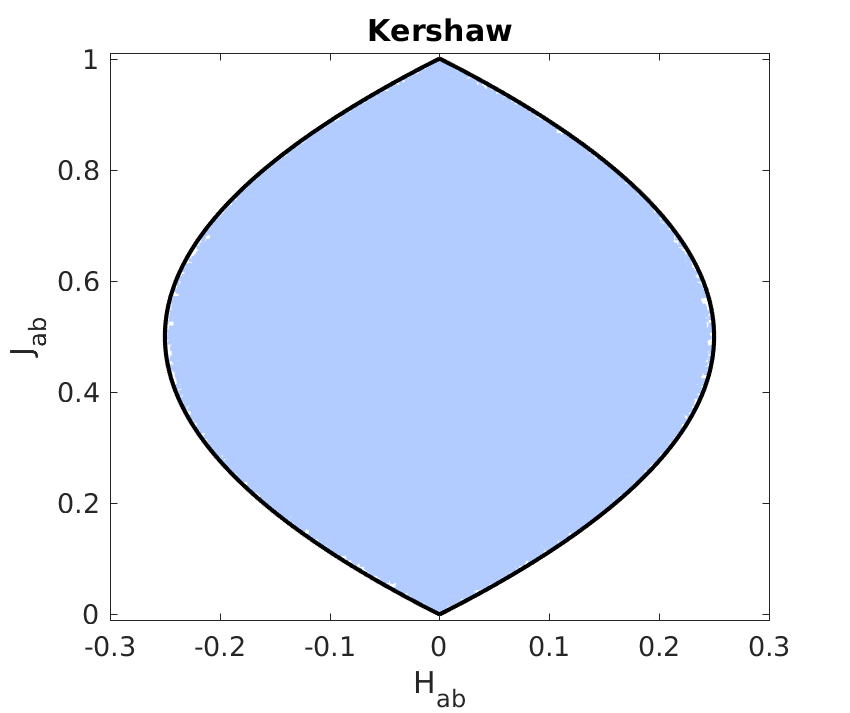
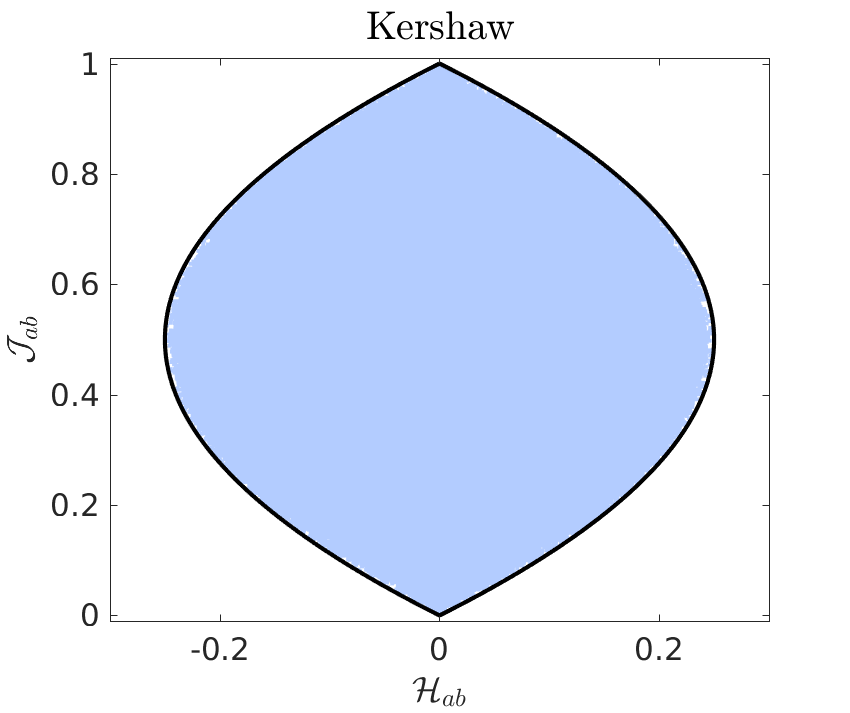
Changed font size and format.

diff --git a/Documents/M1/realizableFermionicM1/figures/MabWithDiffClosure.m b/Documents/M1/realizableFermionicM1/figures/MabWithDiffClosure.m
@@ -1,43 +1,43 @@
-close all
-clear all
+% close all
+% clear all
+% 
+% PolynomialCB = @(x) x^2 * ( 3.0 - abs(x) + 3.0 * x^2 ) / 5.0;
+% EddingtonFCB = @(e,f) (2.0/3.0)*(1.0-e)*(1.0-2.0*e)*PolynomialCB(f/(1.0-e))+1.0/3.0;
+% PolynomialBL = @(x) ( 9.0 * x^2 - 5.0 + sqrt( 33.0 * x^4 - 42.0 * x^2 + 25.0 ) ) /8.0;
+% EddingtonFBL = @(e,f) (2.0/3.0)*(1.0-e)*(1.0-2.0*e)*PolynomialBL(f/(1.0-e))+1.0/3.0;
+% PolynomialKS = @(x) x^2;
+% EddingtonFKS = @(e,f) (2.0/3.0)*(1.0-e)*(1.0-2.0*e)*PolynomialKS(f/(1.0-e))+1.0/3.0; 
+% 
+% nPts = 2000000;
+% J_FD = zeros(nPts,1);
+% H_FD = zeros(nPts,1);
+% iPt = 1;
+% while( iPt <= nPts )
+%     J_FD(iPt) = rand(1);
+%     temp = (rand(1)-0.5)*0.5;
+%     if( abs(temp) <= (1-J_FD(iPt))*J_FD(iPt) )
+%         H_FD(iPt) = temp;
+%         iPt = iPt + 1;
+%     end
+% end
+% 
+% K_CB = zeros(nPts,1);
+% K_BL = zeros(nPts,1);
+% K_MI = zeros(nPts,1);
+% K_KS = zeros(nPts,1);
+% 
+% tic
+% for iPt = 1 : nPts
+%   
+%   K_CB(iPt) = EddingtonFCB( J_FD(iPt), H_FD(iPt)/J_FD(iPt) ) * J_FD(iPt);
+%   K_BL(iPt) = EddingtonFBL( J_FD(iPt), H_FD(iPt)/J_FD(iPt) ) * J_FD(iPt);
+%   K_MI(iPt) = EddingtonFCB( 0.0,       H_FD(iPt)/J_FD(iPt) ) * J_FD(iPt);
+%   K_KS(iPt) = EddingtonFBL( J_FD(iPt), H_FD(iPt)/J_FD(iPt) ) * J_FD(iPt);
+%   
+% end
+% toc
 
-PolynomialCB = @(x) x^2 * ( 3.0 - abs(x) + 3.0 * x^2 ) / 5.0;
-EddingtonFCB = @(e,f) (2.0/3.0)*(1.0-e)*(1.0-2.0*e)*PolynomialCB(f/(1.0-e))+1.0/3.0;
-PolynomialBL = @(x) ( 9.0 * x^2 - 5.0 + sqrt( 33.0 * x^4 - 42.0 * x^2 + 25.0 ) ) /8.0;
-EddingtonFBL = @(e,f) (2.0/3.0)*(1.0-e)*(1.0-2.0*e)*PolynomialBL(f/(1.0-e))+1.0/3.0;
-PolynomialKS = @(x) x^2;
-EddingtonFKS = @(e,f) (2.0/3.0)*(1.0-e)*(1.0-2.0*e)*PolynomialKS(f/(1.0-e))+1.0/3.0; 
-
-nPts = 2000000;
-J_FD = zeros(nPts,1);
-H_FD = zeros(nPts,1);
-iPt = 1;
-while( iPt <= nPts )
-    J_FD(iPt) = rand(1);
-    temp = (rand(1)-0.5)*0.5;
-    if( abs(temp) <= (1-J_FD(iPt))*J_FD(iPt) )
-        H_FD(iPt) = temp;
-        iPt = iPt + 1;
-    end
-end
-
-K_CB = zeros(nPts,1);
-K_BL = zeros(nPts,1);
-K_MI = zeros(nPts,1);
-K_KS = zeros(nPts,1);
-
-tic
-for iPt = 1 : nPts
-  
-  K_CB(iPt) = EddingtonFCB( J_FD(iPt), H_FD(iPt)/J_FD(iPt) ) * J_FD(iPt);
-  K_BL(iPt) = EddingtonFBL( J_FD(iPt), H_FD(iPt)/J_FD(iPt) ) * J_FD(iPt);
-  K_MI(iPt) = EddingtonFCB( 0.0,       H_FD(iPt)/J_FD(iPt) ) * J_FD(iPt);
-  K_KS(iPt) = EddingtonFBL( J_FD(iPt), H_FD(iPt)/J_FD(iPt) ) * J_FD(iPt);
-  
-end
-toc
-
-ClosureName = {'Kershaw', 'ME(CB)', 'ME(BL)','Minerbo'};
+ClosureName = {'Kershaw', 'CB', 'BL','Minerbo'};
 ClosureSaveName = {'BLKS','CBME','BLME','MI'};
 
 for ii = 1:max(size(ClosureName))
@@ -47,9 +47,9 @@ FileName = ClosureSaveName{ii};
 switch Closure
     case 'Minerbo'
         K_plot = K_MI;
-    case 'ME(CB)'
+    case 'CB'
         K_plot = K_CB;
-    case 'ME(BL)'
+    case 'BL'
         K_plot = K_BL;
     case 'Kershaw'
         K_plot = K_KS;
@@ -71,10 +71,10 @@ plot( xxP_FD, yy, '-k', 'linewidth', 2 )
 plot( xxM_FD, yy, '-k', 'linewidth', 2 )
 hold off
 axis([-0.3 0.300001 0.0-1.d-2 1.0+1.d-2]);
-set(gca,'FontSize',13);
-xlabel('H_{ab}');
-ylabel('J_{ab}');
-title([ Closure ]);
+set(gca,'FontSize',15);
+xlabel('$\mathcal{H}_{ab}$','Interpreter','LaTeX','Fontsize',17);
+ylabel('$\mathcal{J}_{ab}$','Interpreter','LaTeX','Fontsize',17);
+title(Closure,'Interpreter','LaTeX','Fontsize',19);
 x0=10;
 y0=5;
 width=400;
